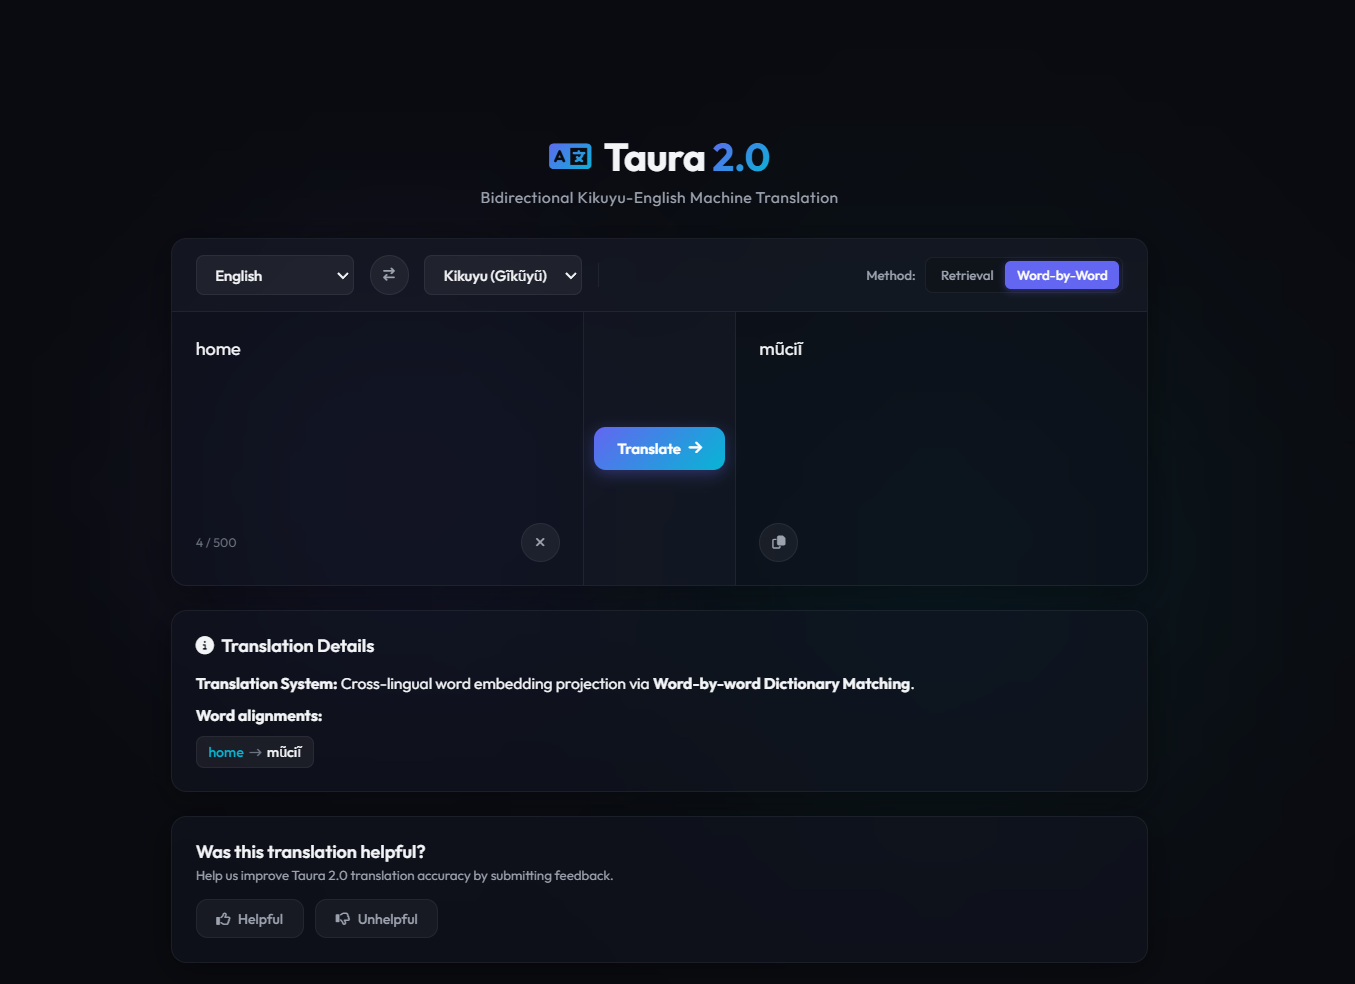
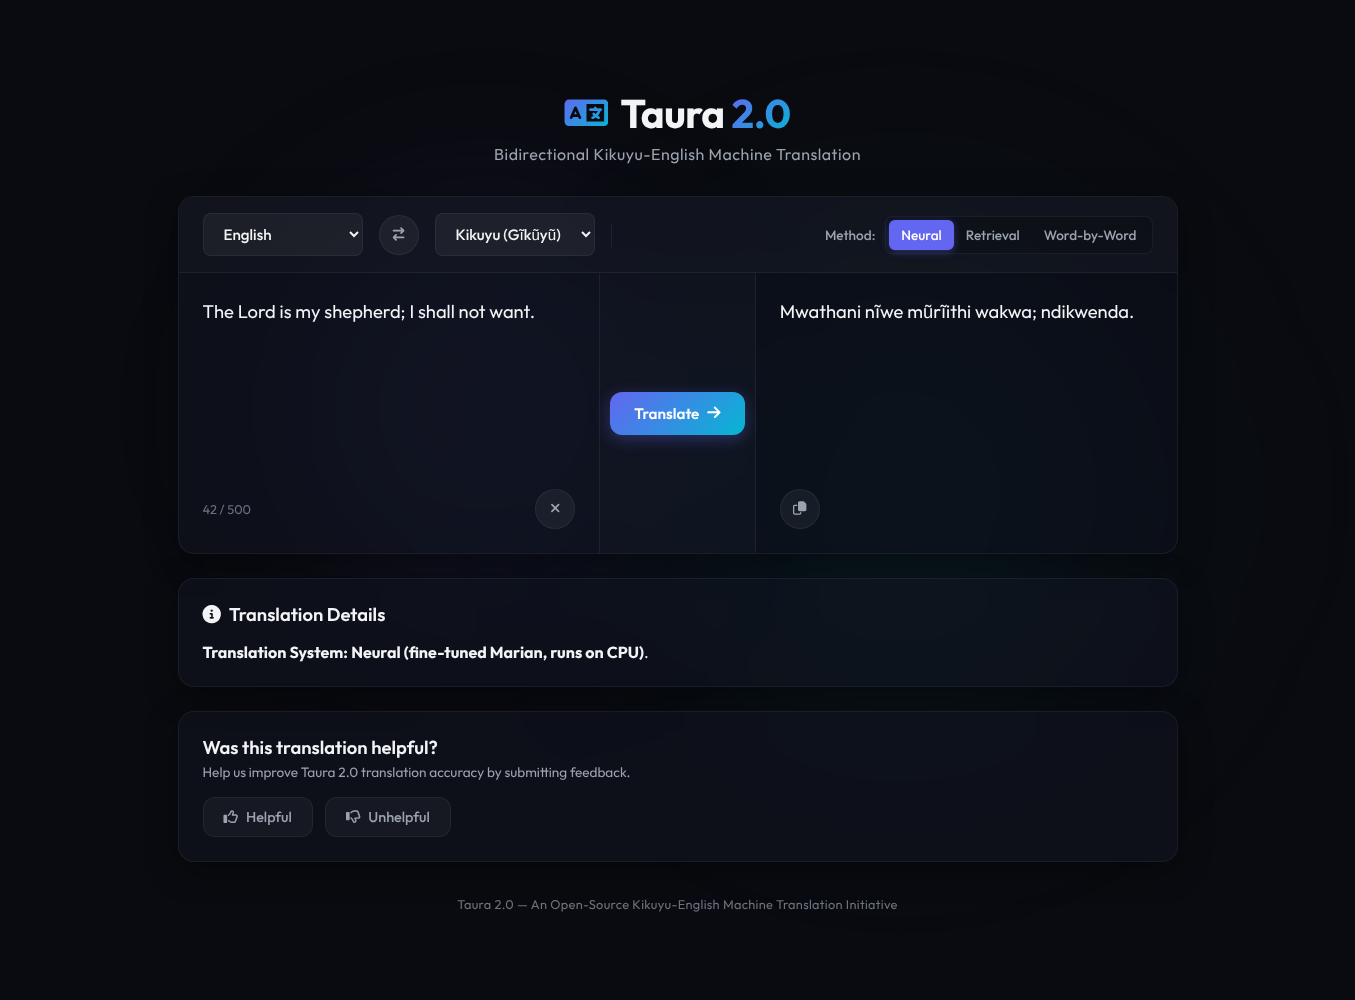
Rewrite README, add Run 34 and handoff

diff --git a/README.md b/README.md
@@ -2,59 +2,28 @@
 
 > *"Taũra"* is Kikuyu for *"Translate."*
 
-**Taura** is an open-source machine translation engine for **Kikuyu ↔ English**, one of the first of its kind for this low-resource Bantu language. The Kikuyu are Kenya's largest ethnic group, with 9 to 10 million speakers making up roughly 17 to 20% of the country's population.
-
-Modern translation tools largely ignore Kikuyu. Taura exists to change that, starting with strong linguistic foundations: curated parallel corpora, morphological segmentation tuned to Kikuyu's agglutinative structure, and cross-lingual embedding alignment using Orthogonal Procrustes mapping.
+**Taura** is an open-source machine translation engine for **Kikuyu ↔ English**, one of the first of its kind for this low-resource Bantu language. The Kikuyu are Kenya's largest ethnic group, with 9 to 10 million speakers (roughly 17 to 20% of the population), yet mainstream translation tools largely ignore the language.
 
 ![Taura 2.0 Web UI](data/assets/taura-iu-screenshot.png)
 
-## What We're Building
+## What's Inside
 
-Taura is not just a translation API. It is a full pipeline:
+- **Corpus:** Kikuyu-English parallel pairs from all 66 books of the Bible (one CSV each in `data/parallel/`) plus agriculture data (coffee, dairy, poultry, potato, banana, mango, cabbage, avocado). About 35,000 pairs, split 80/10/10 (seed 42) into `data/splits/`.
+- **FastText + Procrustes:** monolingual embeddings aligned with iterative Orthogonal Procrustes; serves retrieval and word-by-word translation.
+- **Neural (recommended):** fine-tuned Marian models, int8, CPU only, about 78 MB per direction.
+- **API and web UI:** FastAPI service (`/translate`, `/translate/candidates`, `/model/info`) with a simple UI at `/`.
 
-- **Corpus curation:** parallel sentence pairs from the Bible (66 books (the full Bible), one CSV each in `data/parallel/`) and agriculture sector data (coffee, dairy, poultry, potato, banana, mango, cabbage, avocado): over 30,000 curated pairs and growing
-- **Cross-lingual alignment:** monolingual FastText embeddings aligned via iterative Orthogonal Procrustes with three anchor sources (parallel sentence embeddings, seed dictionary, and identical-string vocabulary pairs) and CSLS-based refinement
-- **Translation API:** FastAPI service with retrieval and word-by-word modes, top-K candidates, a CPU neural mode (fine-tuned Marian), and a lightweight web UI
+## Performance
 
-The long-term goal is to push translation quality to the point where Taura is genuinely useful to Kikuyu speakers, and to serve as a replicable blueprint for other low-resource African languages.
+Latest three evaluated runs on the validation split (`data/splits/val.tsv`). Older runs are in `CHANGELOG.md` and git history.
 
-## Performance Progression
-
-Starting point and the latest runs only; older runs are in `CHANGELOG.md` and git history.
-FastText rows are mean of 2 retrains, scored on the validation split (`data/splits/val.tsv`, seeded hash 80/10/10).
-Neural rows generate translations (beam 4) and are timed on CPU (CTranslate2 int8, 4 vCPU, one sentence at a time).
-
-| Run | Model | Data / validation | Ki→En BLEU / chrF | En→Ki BLEU / chrF | Size, CPU latency |
+| Run | Model | Validation | Ki→En BLEU / chrF | En→Ki BLEU / chrF | Size, CPU latency |
 |---|---|---|---|---|---|
-| 1 (start) | FastText + simple Procrustes | old 100-verse set | 5.34 / - | 4.91 / - | - |
-| 19 | same, + 2 Samuel | 31 books; 2,984 val (Run 18's + 78) | 35.11 / 50.75 | 34.87 / 55.54 | - |
-| 20 | same, + Joshua, Judges | 33 books; 3,096 val (Run 19's + Joshua's 58 + Judges' 54) | 31.79 / 47.13 | 35.87 / 55.17 | - |
-| 21 | same, + Nehemiah | 34 books; 3,135 val (Run 20's + Nehemiah's 39) | 35.69 / 51.98 | 36.63 / 57.03 | - |
-| 22 | same, + Revelation; one run on Kaggle (published models) | 35 books; 3,178 val (Run 21's + Revelation's 43) | 35.74 / 52.16 | 36.83 / 57.38 | 4.9 GB total (2 x 2.4 GB) |
-| 23 | same, + Daniel, Hebrews, 148 verses cleaned of stray chapter numbers; one run on Kaggle (models not republished) | 37 books; 3,254 val (Run 22's 3,178 + Daniel, Hebrews; 117 cleaned pairs moved between splits) | 37.64 / 53.41 | 35.81 / 56.43 | 4.9 GB total (2 x 2.4 GB) |
-| 24 | same, + Ezra, Zechariah; one run on Kaggle (models not republished) | 39 books; 3,309 val (Run 23's 3,254 + Ezra's 25 + Zechariah's 30) | 36.13 / 51.68 | 37.32 / 56.35 | 4.9 GB total (2 x 2.4 GB) |
-| 25 | same, + Hosea, Esther; one run on Kaggle (models not republished) | 41 books; 3,346 val (Run 24's 3,309 + Hosea's 19 + Esther's 18) | 34.86 / 50.97 | 37.94 / 58.26 | 4.9 GB total (2 x 2.4 GB) |
-| 26 | same, + Lamentations; one run on Kaggle (models not republished) | 42 books; 3,357 val (Run 25's 3,346 + Lamentations' 11) | 35.70 / 51.21 | 37.55 / 56.88 | 4.9 GB total (2 x 2.4 GB) |
-| 27 | same, + Amos, Song of Solomon; one run on Kaggle (models not republished) | 44 books; 3,378 val (Run 26's 3,357 + Amos' 14 + Song of Solomon's 7) | 34.89 / 50.37 | 35.03 / 55.72 | 4.9 GB total (2 x 2.4 GB) |
-| 28 | same, + Micah; one run on Kaggle (models not republished) | 45 books; 3,388 val (Run 27's 3,378 + Micah's 10) | 35.05 / 51.14 | 39.32 / 58.79 | 4.9 GB total (2 x 2.4 GB) |
-| 29 | same, + 1 Timothy; one run on Kaggle (models not republished) | 46 books; 3,401 val (Run 28's 3,388 + 1 Timothy's 13) | 36.35 / 51.63 | 35.91 / 56.23 | 4.9 GB total (2 x 2.4 GB) |
-| 30 | same, + James; one run on Kaggle (models not republished) | 48 books; 3,415 val (Run 29's 3,401 + James's 14) | 35.52 / 50.69 | 36.19 / 56.15 | 4.9 GB total (2 x 2.4 GB) |
-| 31 | same, + 1 Peter; one run on Kaggle (models not republished) | 49 books; 3,427 val (Run 30's 3,415 + 1 Peter's 12) | 35.95 / 51.82 | 35.34 / 56.28 | 4.9 GB total (2 x 2.4 GB) |
-| 32 | same, + 1 John; one run on Kaggle (models not republished). Ki->En down 1.0 BLEU, En->Ki up 0.9 BLEU: within the ~3 BLEU retrain noise | 50 books; 3,445 val (Run 31's 3,427 + 1 John's 18) | 34.91 / 50.11 | 36.22 / 56.70 | 4.9 GB total (2 x 2.4 GB) |
-| 33 | same, + 2 Timothy and Ruth; one run on Kaggle (models not republished). Ki->En up 1.6 BLEU, En->Ki down 1.2 BLEU: within the ~3 BLEU retrain noise | 52 books; 3,461 val (Run 32's 3,445 + 2 Timothy's 8 + Ruth's 8) | 36.47 / 52.26 | 35.00 / 55.95 | 4.9 GB total (2 x 2.4 GB) |
-| N3 | Marian opus-mt fine-tuned (77M per direction), fixed epochs (Ki→En 4, En→Ki 7) | Run 17 train; Run 18's 2,906 val | **39.56 / 56.30** | 25.19 / 53.47 | 78 MB each; 0.59 s Ki→En, 1.34 s En→Ki |
-| N4 | same, En→Ki only, 12 epochs (Ki→En stays N3) | 32 books; 3,042 val (Run 19's + Joshua's 58) | - | **26.39 / 54.36** | 78 MB; 2.05 s En→Ki (N3: 2.09 s, same 100 sentences) |
-| N5 | same as N4 (opus-mt-en-mul), En→Ki retrained, 12 epochs, 26,902 train pairs | 46 books; 3,390 val | - | **26.79 / 54.93** | 78 MB; 1.51 s En→Ki (seeded 50-sentence sample, beam 4) |
-| N5b | En→Ki from the Swahili-specific opus-mt-en-sw instead (same settings) | 46 books; 3,390 val | - | 7.97 / 36.27 | not measured (same 77M architecture) |
+| 33 | FastText + Procrustes, 52 books (single Kaggle run, models not republished) | 3,461 val | 36.47 / 52.26 | 35.00 / 55.95 | 4.9 GB total (2 x 2.4 GB) |
+| 34 | same, trained on all 66 books (adds the last 14 books); single Kaggle run, models not republished. Ki→En down 1.3 BLEU, En→Ki up 3.3 BLEU: within the ~3 BLEU retrain noise | 3,510 val | 35.13 / 50.97 | 38.35 / 57.92 | 4.9 GB total (2 x 2.4 GB) |
+| N5 | Marian opus-mt fine-tuned (77M), En→Ki 12 epochs (published neural model; Ki→En N3 scored 39.56 / 56.30) | 3,390 val | - | 26.79 / 54.93 | 78 MB each; 1.51 s En→Ki, 0.59 s Ki→En |
 
-N5 vs N4: En→Ki +0.4 BLEU / +0.6 chrF from retraining on 46 books (N4's 26.39 was on a different, 3,042-verse validation set), so this is mostly more data and no real change; the published En→Ki model stays N4. Starting from the Swahili model (N5b) is far worse (7.97 BLEU): the multilingual model's wider vocabulary copes better with Kikuyu spellings. Both are single runs from the Kaggle kernel `jameswanjiku/taura-marian-sw`.
-N4 vs N3: En→Ki +1.2 BLEU / +0.8 chrF with 12 epochs instead of 7 (both scored on CPU on the same 3,042 verses; on N3's original 2,906 it is 26.26 vs 25.19), at the same speed and size. N4 also had 1,651 more training pairs (2 Kings, 2 Samuel, Joshua), so part of the gain may come from data. The latency sample here has longer sentences than N3's earlier 1.34 s measurement.
-Run 22 vs 21: Ki→En +0.05 BLEU, En→Ki +0.20, both far inside the 2-3 BLEU run-to-run spread of earlier retrains, so Revelation made no clearly measurable change. Run 22 is a single run (not a mean of 2); its models are the published ones in the `fasttext/` folder of the Hugging Face repo.
-Run 23 vs 22: Ki→En +1.9 BLEU, En→Ki -1.0, both inside the 2-3 BLEU run-to-run spread of earlier retrains, so Daniel, Hebrews and the chapter-number cleaning made no clearly measurable change. The validation set is not identical to Run 22's (cleaned pairs moved between splits), so the comparison is approximate. Single run; the published FastText models are still Run 22's.
-Run 21 vs 20: Ki→En +3.9 BLEU, En→Ki +0.8, but Run 20's two retrains differed by 2.6 and 2.4 BLEU (the two Run 21 retrains agree within 0.05 and 0.9), and Run 19 scored 35.11 / 34.87, so the rise is within run-to-run noise and Nehemiah made no clearly measurable change. Run 21 retrains: 35.71 / 51.96 and 35.67 / 52.00 (Ki→En), 37.08 / 56.82 and 36.19 / 57.23 (En→Ki).
-Run 20 vs 19: Ki→En -3.3 BLEU, En→Ki +1.0, but the two Run 20 retrains differ by 2.6 (Ki→En: 30.47 and 33.10) and 2.4 (En→Ki: 34.68 and 37.06) BLEU, the validation set gained 112 verses, and the earlier Run 19 pairs ranged 32.4-35.4, so Joshua and Judges made no clearly measurable change.
-Run 19 vs 18: Ki→En +3.7 BLEU, En→Ki +0.5, but the two Run 19 retrains differ by 2.2 (Ki→En) and 0.5 (En→Ki) BLEU and the validation set gained 78 verses, so 2 Samuel made no clearly measurable change.
-FastText retrieval picks an existing validation sentence, so its BLEU is not directly comparable with the neural rows.
+FastText retrieval returns an existing training sentence, so its BLEU is not directly comparable with the neural rows. Single FastText runs vary by about 3 BLEU between retrains, so differences smaller than that are noise. Neural rows use beam 4 on CPU (CTranslate2 int8, 4 vCPU, one sentence at a time).
 
 ## Quick Start
 
@@ -68,6 +37,10 @@ uv sync
 
 > **Data & models** are not bundled. Download source files from [Garnet-Owl/taura-datasets](https://huggingface.co/datasets/Garnet-Owl/taura-datasets) on Hugging Face and place them in `data/`. Parallel CSV files are already included in the repo.
 
+### Train from scratch (optional)
+
+Training runs on a GPU provider (Kaggle), not a laptop.
+
 ```bash
 # 1. Prepare dataset
 uv run python -m scripts.prepare_dataset
@@ -78,20 +51,6 @@ uv run python -m scripts.train_embeddings
 # 3. Serve
 uv run uvicorn app.serve.main:app --reload
 ```
-
-### Download the FastText models (retrieval and word-by-word)
-
-The trained FastText + Procrustes models (Run 22) are in the `fasttext/` folder of the same public repo, so you do not need to train them. They are large (about 2.4 GB each for `ki.bin` and `en.bin`).
-
-```bash
-uv run --with huggingface_hub hf download Garnet-Owl/taura-marian-kikuyu-english \
-  --include "fasttext/*" --local-dir hf-download
-mkdir -p models/run_hf_fasttext
-cp hf-download/fasttext/* models/run_hf_fasttext/
-uv run uvicorn app.serve.main:app
-```
-
-The server uses the newest `models/run_*` folder, which must contain `ki.bin`, `en.bin`, `proj_ki_en.npy` and `proj_en_ki.npy`. Retrieval also needs `data/splits/train.tsv` (in git) to look up sentences. Retraining is done on a GPU provider (Kaggle) rather than a laptop; Run 22 used `uv run python -m scripts.train_embeddings` on a Kaggle kernel.
 
 ### Run the neural translator (recommended, CPU only)
 
@@ -110,9 +69,23 @@ uv run uvicorn app.serve.main:app
 
 Repeat `--include` once per folder, and download into a folder inside the project (not `/tmp`), which also works on Windows. A startup warning that the FastText models are not found is expected and harmless: only the `neural` method needs the downloaded models.
 
-Each folder must contain `model.bin` directly (check with `ls models/marian-ct2-int8/en_ki`). Open http://localhost:8000: the web UI uses the **Neural** method by default and falls back to Retrieval when the neural models are not installed. Through the API use `"method": "neural"` (see the examples below). English to Kikuyu takes about 2 s per sentence on 4 CPU cores; Kikuyu to English about 0.6 s.
+Each folder must contain `model.bin` directly (check with `ls models/marian-ct2-int8/en_ki`). Open http://localhost:8000: the web UI uses the **Neural** method by default and falls back to Retrieval when the neural models are not installed. Through the API use `"method": "neural"` (see the API examples below). English to Kikuyu takes about 2 s per sentence on 4 CPU cores; Kikuyu to English about 0.6 s.
 
-Open **[http://localhost:8000](http://localhost:8000)** for the web UI or **[http://localhost:8000/docs](http://localhost:8000/docs)** for the API.
+Open http://localhost:8000 for the web UI or http://localhost:8000/docs for the API docs.
+
+### Download the FastText models (retrieval and word-by-word)
+
+The trained FastText + Procrustes models are in the `fasttext/` folder of the same public repo, so you do not need to train them. They are large (about 2.4 GB each for `ki.bin` and `en.bin`).
+
+```bash
+uv run --with huggingface_hub hf download Garnet-Owl/taura-marian-kikuyu-english \
+  --include "fasttext/*" --local-dir hf-download
+mkdir -p models/run_hf_fasttext
+cp hf-download/fasttext/* models/run_hf_fasttext/
+uv run uvicorn app.serve.main:app
+```
+
+The server uses the newest `models/run_*` folder, which must contain `ki.bin`, `en.bin`, `proj_ki_en.npy` and `proj_en_ki.npy`. Retrieval also needs `data/splits/train.tsv` (in git) to look up sentences. Retraining is done on a GPU provider (Kaggle) rather than a laptop; Run 22 used `uv run python -m scripts.train_embeddings` on a Kaggle kernel.
 
 ## API
 

diff --git a/session-details/progress_update_2026-10-31.md b/session-details/progress_update_2026-10-31.md
@@ -6,7 +6,7 @@ Still in Milestone 3: corpus expansion and quality control.
 
 ## Current Phase
 
-Latest (2026-11-01, latest): Ruth (52 books) and Joel (53 books) added; split now 27,432 / 3,469 / 3,378. FastText Run 33 (2 Timothy + Ruth, 52 books, 3,461 val; Kaggle `jameswanjiku/taura-fasttext-run33`): Ki->En 36.47 BLEU / 52.26 chrF, En->Ki 35.00 / 55.95, within noise of Run 32; models not republished. Run 33 does not include Joel. Previous: 1 John (50 books) and 2 Timothy (51 books) added; split now 27,306 / 3,452 / 3,363. FastText Run 32 (1 John, 3,445 val; Kaggle `jameswanjiku/taura-fasttext-run32`): Ki->En 34.91 BLEU / 50.11 chrF, En->Ki 36.22 / 56.70, within noise of Run 31 (35.95 / 35.34); models not republished. Earlier: 1 Peter added (49 books; split 27,153 / 3,427 / 3,353); FastText Run 31 below. Earlier: James added (48 books; split 27,071 / 3,415 / 3,342); FastText Run 30 below. Earlier: Nahum added (46 books; split 26,902 / 3,390 / 3,315). GPU run N5 (Kaggle `jameswanjiku/taura-marian-sw`): En->Ki Marian opus-mt-en-mul retrained 12 epochs = 26.79 BLEU / 54.93 chrF on 3,390 val (N4 26.39 on an older val; 1.51 s/sentence CPU int8 beam 4, 78 MB); opus-mt-en-sw base = 7.97 / 36.27 (rejected). Published models unchanged. Run 28 below is the latest FastText run.
+Latest (2026-11-01, final): the whole Bible is extracted (66 books, 13 more added: Obadiah, Jonah, Habakkuk, Zephaniah, Haggai, Malachi, 2 Thessalonians, Titus, Philemon, 2 Peter, 2 John, 3 John, Jude); split 27,846 / 3,510 / 3,425. FastText Run 34 (all 66 books, 3,510 val; Kaggle `jameswanjiku/taura-fasttext-run34`): Ki->En 35.13 BLEU / 50.97 chrF, En->Ki 38.35 / 57.92, within noise of Run 33; models not republished (public models are now many books behind: refresh is due). The Milestone 3 corpus goal (all books) looks complete; the owner may update the plan. README now shows only the latest 3 metric rows. Previous: Ruth (52 books) and Joel (53 books) added; split now 27,432 / 3,469 / 3,378. FastText Run 33 (2 Timothy + Ruth, 52 books, 3,461 val; Kaggle `jameswanjiku/taura-fasttext-run33`): Ki->En 36.47 BLEU / 52.26 chrF, En->Ki 35.00 / 55.95, within noise of Run 32; models not republished. Run 33 does not include Joel. Previous: 1 John (50 books) and 2 Timothy (51 books) added; split now 27,306 / 3,452 / 3,363. FastText Run 32 (1 John, 3,445 val; Kaggle `jameswanjiku/taura-fasttext-run32`): Ki->En 34.91 BLEU / 50.11 chrF, En->Ki 36.22 / 56.70, within noise of Run 31 (35.95 / 35.34); models not republished. Earlier: 1 Peter added (49 books; split 27,153 / 3,427 / 3,353); FastText Run 31 below. Earlier: James added (48 books; split 27,071 / 3,415 / 3,342); FastText Run 30 below. Earlier: Nahum added (46 books; split 26,902 / 3,390 / 3,315). GPU run N5 (Kaggle `jameswanjiku/taura-marian-sw`): En->Ki Marian opus-mt-en-mul retrained 12 epochs = 26.79 BLEU / 54.93 chrF on 3,390 val (N4 26.39 on an older val; 1.51 s/sentence CPU int8 beam 4, 78 MB); opus-mt-en-sw base = 7.97 / 36.27 (rejected). Published models unchanged. Run 28 below is the latest FastText run.
 
 
 Run 23 (Daniel, Hebrews and 148 chapter-number-cleaned verses; 25,770 train pairs, 3,254 val pairs), single Kaggle run (kernel jameswanjiku/taura-fasttext-run23): Ki->En 37.64 BLEU / 53.41 chrF, Top-1 24.2%, MRR 0.328; En->Ki 35.81 / 56.43, Top-1 22.9%, MRR 0.323. Within noise of Run 22; models not republished. Corpus is now 38 books (Ezra added after this run; the split is 25,992 / 3,279 / 3,192, so the next run is Run 24).

diff --git a/session-details/handoffs/2026-11-01_1145_handoff.md b/session-details/handoffs/2026-11-01_1145_handoff.md
@@ -1,0 +1,15 @@
+## Status
+Milestone 3 corpus complete: all 66 books extracted (13 added this session, one commit each, zero missing/empty; single-chapter books use a `parse_page_header` override). Splits rebuilt append-only: 27,846 / 3,510 / 3,425. FastText Run 34 on Kaggle (`jameswanjiku/taura-fasttext-run34`, COMPLETE, branch auto/2026-11-01-1130): Ki->En 35.13 BLEU / 50.97 chrF, En->Ki 38.35 / 57.92 on 3,510 val (noise vs Run 33). README rewritten (latest 3 metric rows, ordered sections), new UI screenshot with the Neural method, rule added to CLAUDE.md and AGENTS.md. No kernel running; nothing training or serving locally.
+
+## Last Files Changed
+- app/preprocessing/bible/<book>/ (13 new extractors), tests/test_<book>_parser.py, data/parallel/<book>_aligned.csv, orchestrator registration.
+- data/splits/*.tsv (append-only), README.md (rewritten), data/assets/taura-iu-screenshot.png, CLAUDE.md/AGENTS.md (README rules), CHANGELOG.md, progress_update_2026-10-31.md.
+
+## Next Task
+1. **Refresh the public models** (overdue, 14 books behind): `uv run python -m scripts.prepare_dataset`, then the full train+val+test pass on Kaggle for FastText (clone the pushed branch; template: `kaggle kernels pull jameswanjiku/taura-fasttext-run34 -m`) and Marian Ki->En and En->Ki (kernel `jameswanjiku/taura-marian-sw`; refresh dataset `jameswanjiku/taura-splits-20261018` first). Replace the models in Garnet-Owl/taura-marian-kikuyu-english, report CPU latency and size, update README.
+2. Synthetic data, 1,000 pairs per session into `data/synthetic/` (see the earlier plan: licence-checked English sentences, `source` and confidence columns, never in val/test).
+3. After 2,000 synthetic pairs, retrain and compare on the real val split.
+4. En->Ki Marian improvement (back-translation, Kikuyu tokens, distilled NLLB); cleanup of glued words, trailing "*" marks, Psalms markers, macron-vs-tilde in agriculture CSVs.
+
+## Blockers
+None.

diff --git a/CHANGELOG.md b/CHANGELOG.md
@@ -286,3 +286,7 @@ belong in handoffs, tests, and code comments.
 
 ## 2026-11-01 - Whole Bible Complete
 - Added the last 13 books (Obadiah, Jonah, Habakkuk, Zephaniah, Haggai, Malachi, 2 Thessalonians, Titus, Philemon, 2 Peter, 2 John, 3 John, Jude; 502 verse pairs, none missing or empty), so all 66 books are now in the corpus. The split grew append-only to 27,846 train, 3,510 validation and 3,425 test pairs.
+
+## 2026-11-01 - FastText Run 34 and README Rewrite
+- FastText Run 34 on all 66 books: Kikuyu→English 35.1 BLEU, English→Kikuyu 38.3 BLEU, within normal run-to-run variation. Published models are not yet refreshed.
+- Rewrote the README to be shorter and better ordered, with only the latest three metric rows, and replaced the web UI screenshot with one showing the new Neural method. The "latest 3 rows" rule is now in CLAUDE.md.

diff --git a/AGENTS.md b/AGENTS.md
@@ -69,6 +69,11 @@ Current milestone state is in `session-details/progress_update_<date>.md` and th
 - Document preprocessing steps clearly.
 - FastText models should be trained with clear versioning and metric tracking.
 
+### README
+- **Keep the README short and ordered** (intro, screenshot, what's inside, performance, quick start, API, tests, contributing, license). No long per-run commentary there.
+- **The README Performance table holds only the latest 3 evaluated metric rows** (drop the oldest when adding one). Full history lives in `CHANGELOG.md` and git history.
+- **Refresh the README UI screenshot** (`data/assets/taura-iu-screenshot.png`) whenever the web UI changes.
+
 ---
 
 ## Testing Rules

diff --git a/CLAUDE.md b/CLAUDE.md
@@ -69,6 +69,11 @@ Current milestone state is in `session-details/progress_update_<date>.md` and th
 - Document preprocessing steps clearly.
 - FastText models should be trained with clear versioning and metric tracking.
 
+### README
+- **Keep the README short and ordered** (intro, screenshot, what's inside, performance, quick start, API, tests, contributing, license). No long per-run commentary there.
+- **The README Performance table holds only the latest 3 evaluated metric rows** (drop the oldest when adding one). Full history lives in `CHANGELOG.md` and git history.
+- **Refresh the README UI screenshot** (`data/assets/taura-iu-screenshot.png`) whenever the web UI changes.
+
 ---
 
 ## Testing Rules
